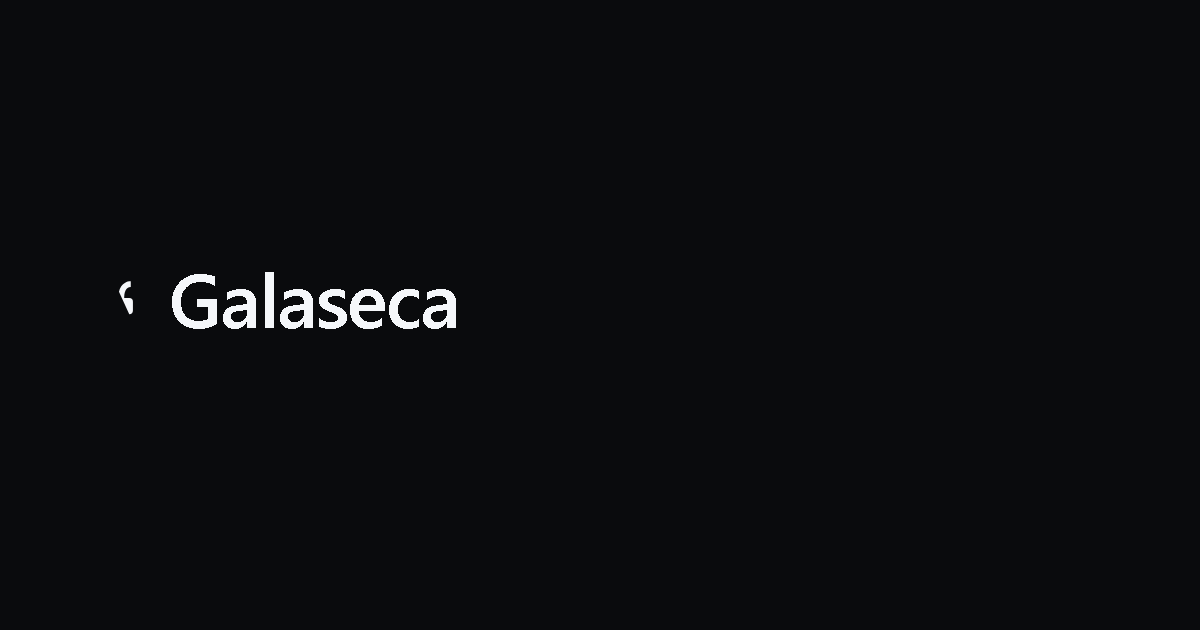
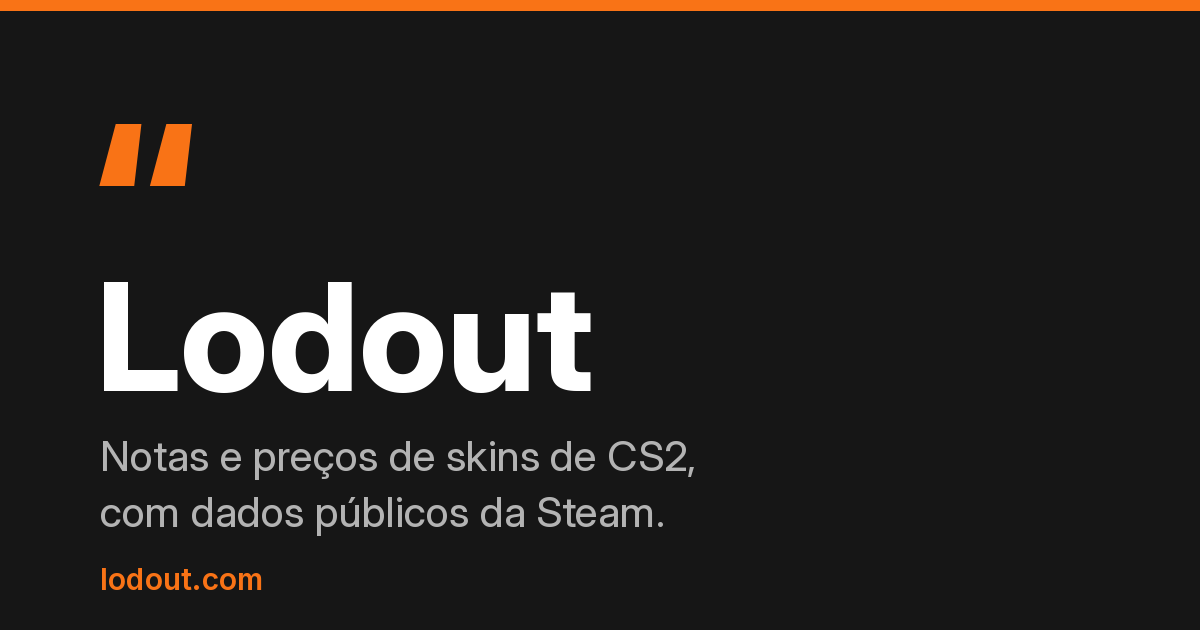
Imagem de prévia ao compartilhar: cartão por item e padrão do Lodout
- og_cards.py (Pillow + a Inter do site): cartao_padrao() e
  cartao_item() 1200x630 com ícone, nome, nota (cor da faixa), preço e
  fio na cor da raridade; ★ desenhada (a Inter servida não tem o glifo).
- /og/item.png?nome=...: só dado já guardado -- ícone do cache local,
  nunca o CDN da Steam; cache em disco (data/og_cache) por
  nome+nota+preço+ícone, teto de 800 arquivos; rate limit da API.
- item.html: og:image/twitter:image apontam pro cartão,
  summary_large_image, largura/altura/alt.
- _head_pwa: páginas sem imagem própria (ranking, novidades, status,
  método...) ganham a padrão.
- static/og-image.png regenerada: ainda dizia "Galaseca".
  scripts/gerar_og_image.py recria.

Claude-Session: https://claude.ai/code/session_017sM22vPk2b77LTLZDB1cBK

diff --git a/lodout/public_site/templates/item.html b/lodout/public_site/templates/item.html
@@ -9,13 +9,16 @@
   <meta property="og:title" content="{{ item.name_fmt }} — Lodout">
   <meta property="og:description" content="Nota {{ item.score }}/100 · {{ item.price_fmt }}{% if item.reasons %} · {{ item.reasons|join('; ') }}{% endif %}">
   <meta property="og:type" content="website">
-  <meta property="og:image" content="{{ request.url_root.rstrip('/') ~ (item.icon_url_2x if item.icon_url_2x else url_for('static', filename='og-image.png')) }}">
+  <meta property="og:image" content="{{ request.url_root.rstrip('/') ~ url_for('og_item', nome=item.name) }}">
+  <meta property="og:image:width" content="1200">
+  <meta property="og:image:height" content="630">
+  <meta property="og:image:alt" content="{{ item.name_fmt }}: nota {{ item.score }}/100, {{ item.price_fmt }}">
   <meta property="og:url" content="{{ request.url }}">
   <meta property="og:locale" content="pt_BR">
-  <meta name="twitter:card" content="summary">
+  <meta name="twitter:card" content="summary_large_image">
   <meta name="twitter:title" content="{{ item.name_fmt }} — Lodout">
   <meta name="twitter:description" content="Nota {{ item.score }}/100 · {{ item.price_fmt }}">
-  <meta name="twitter:image" content="{{ request.url_root.rstrip('/') ~ (item.icon_url_2x if item.icon_url_2x else url_for('static', filename='og-image.png')) }}">
+  <meta name="twitter:image" content="{{ request.url_root.rstrip('/') ~ url_for('og_item', nome=item.name) }}">
   <link rel="canonical" href="{{ request.url }}">
   <script type="application/ld+json">
   {

diff --git a/lodout/public_site/templates/partials/_head_pwa.html b/lodout/public_site/templates/partials/_head_pwa.html
@@ -1,4 +1,13 @@
   <link rel="icon" href="{{ static_v('favicon.svg') }}">
+  {# Prévia ao compartilhar: início e item declaram a própria imagem; as
+     demais páginas usam a padrão (logo + frase), que antes não tinham. #}
+  {% if request.endpoint not in ('index', 'item_detail') %}
+  <meta property="og:site_name" content="Lodout">
+  <meta property="og:image" content="{{ request.url_root.rstrip('/') }}{{ url_for('static', filename='og-image.png') }}">
+  <meta property="og:image:width" content="1200">
+  <meta property="og:image:height" content="630">
+  <meta name="twitter:card" content="summary_large_image">
+  {% endif %}
   {# Fonte crítica: preload pra começar a baixar em paralelo com o HTML,
      em vez de só depois que o CSS é baixado e parseado (o @font-face
      dispara o fetch da fonte). Sem isso, o texto fica em fallback até a

diff --git a/lodout/public_site/og_cards.py b/lodout/public_site/og_cards.py
@@ -1,0 +1,214 @@
+"""Imagens de prévia (Open Graph, 1200x630) pra quando um link do Lodout
+é colado no Discord, WhatsApp, X etc.
+
+- `cartao_padrao()`: marca + frase do site. Gera o `static/og-image.png`
+  (via scripts/gerar_og_image.py) usado pelas páginas sem imagem própria.
+- `cartao_item(...)`: um por item, com ícone, nome, nota, preço e a cor
+  da raridade. Feito só com dado já guardado (scan + ícone já em cache
+  local): gerar a prévia nunca consulta a Steam nem o CDN dela.
+
+Pillow já é dependência do site (icon_cache.py); a fonte é a mesma Inter
+variável que o site serve (static/fonts), com eixo de peso.
+"""
+from __future__ import annotations
+
+import hashlib
+import io
+from pathlib import Path
+
+from PIL import Image, ImageDraw, ImageFont
+
+from lodout import _paths
+from lodout._paths import atomic_write_bytes
+
+LARGURA, ALTURA = 1200, 630
+_FONTE = Path(__file__).parent / "static" / "fonts" / "inter-latin-opsz-normal.woff2"
+
+# Mesmas cores do tema (style.css :root e .raridade-*, .nota-*).
+_FUNDO = (22, 22, 22)          # --bg #161616
+_SUPERFICIE = (30, 30, 30)     # --surface #1e1e1e
+_TEXTO = (255, 255, 255)
+_TEXTO_FRACO = (179, 179, 179)  # --text-muted
+_LARANJA = (249, 115, 22)      # --accent
+_CORES_NOTA = {"alta": (34, 160, 74), "media": (217, 119, 6),
+               "baixa": (179, 179, 179)}
+_CORES_RARIDADE = {
+    "consumer": (176, 195, 217), "industrial": (94, 152, 217),
+    "milspec": (75, 105, 255), "restricted": (136, 71, 255),
+    "classified": (211, 44, 230), "covert": (235, 75, 75),
+    "dourado": (228, 174, 57),
+}
+# Cache em disco: ~185 itens x poucas dezenas de KB. Teto pra não
+# acumular versões antigas (nota/preço mudam a cada coleta).
+_CACHE_MAX_ARQUIVOS = 800
+
+
+def _fonte(tamanho: int, peso: int = 400) -> ImageFont.FreeTypeFont:
+    f = ImageFont.truetype(str(_FONTE), tamanho)
+    try:
+        f.set_variation_by_axes([32 if tamanho >= 32 else 14, peso])
+    except (OSError, ValueError):
+        pass
+    return f
+
+
+def _quebrar(texto: str, fonte, largura_max: int, linhas_max: int) -> "list[str]":
+    """Quebra por palavra; corta com reticências se passar de linhas_max."""
+    palavras, linhas, atual = texto.split(), [], ""
+    for p in palavras:
+        teste = f"{atual} {p}".strip()
+        if fonte.getlength(teste) <= largura_max:
+            atual = teste
+        else:
+            if atual:
+                linhas.append(atual)
+            atual = p
+    if atual:
+        linhas.append(atual)
+    if len(linhas) > linhas_max:
+        linhas = linhas[:linhas_max]
+        ultima = linhas[-1]
+        while ultima and fonte.getlength(ultima + "…") > largura_max:
+            ultima = ultima[:-1]
+        linhas[-1] = ultima.rstrip() + "…"
+    return linhas
+
+
+def _aspas(d: ImageDraw.ImageDraw, x: int, y: int, tamanho: int,
+           cor=_LARANJA) -> None:
+    """As aspas do logo: o caractere “ da própria Inter, em negrito."""
+    d.text((x, y), "\u201c", font=_fonte(tamanho, 800), fill=cor)
+
+
+def _estrela(d: ImageDraw.ImageDraw, cx: float, cy: float, r: float,
+             cor) -> None:
+    """★ desenhada (a Inter servida pelo site não tem o glifo)."""
+    import math
+    pontos = []
+    for i in range(10):
+        raio = r if i % 2 == 0 else r * 0.45
+        ang = -math.pi / 2 + i * math.pi / 5
+        pontos.append((cx + raio * math.cos(ang), cy + raio * math.sin(ang)))
+    d.polygon(pontos, fill=cor)
+
+
+def _png(img: Image.Image) -> bytes:
+    buf = io.BytesIO()
+    img.save(buf, "PNG", optimize=True)
+    return buf.getvalue()
+
+
+def cartao_padrao() -> bytes:
+    img = Image.new("RGB", (LARGURA, ALTURA), _FUNDO)
+    d = ImageDraw.Draw(img)
+    d.rectangle([0, 0, LARGURA, 10], fill=_LARANJA)
+    _aspas(d, 92, 70, 220)
+    d.text((96, 245), "Lodout", font=_fonte(150, 750), fill=_TEXTO)
+    frase = "Notas e preços de skins de CS2,\ncom dados públicos da Steam."
+    y = 430
+    for linha in frase.split("\n"):
+        d.text((100, y), linha, font=_fonte(42, 450), fill=_TEXTO_FRACO)
+        y += 56
+    d.text((100, ALTURA - 70), "lodout.com", font=_fonte(30, 600),
+           fill=_LARANJA)
+    return _png(img)
+
+
+def _nota_classe(nota: "int | float | None") -> str:
+    nota = nota or 0
+    return "alta" if nota >= 70 else ("media" if nota >= 45 else "baixa")
+
+
+def cartao_item(nome_fmt: str, nota: "int | None", preco_fmt: str,
+                raridade: "str | None" = None,
+                icone: "bytes | None" = None) -> bytes:
+    """1200x630: ícone à esquerda (se houver), nome, nota e preço."""
+    cor_rar = _CORES_RARIDADE.get(raridade or "", _LARANJA)
+    img = Image.new("RGB", (LARGURA, ALTURA), _FUNDO)
+    d = ImageDraw.Draw(img)
+    d.rectangle([0, 0, LARGURA, 10], fill=cor_rar)
+
+    # Quadro do ícone, com o fio da cor de raridade (como no site).
+    qx, qy, qt = 70, 105, 420
+    d.rounded_rectangle([qx, qy, qx + qt, qy + qt], radius=28,
+                        fill=_SUPERFICIE, outline=cor_rar, width=4)
+    if icone:
+        try:
+            ic = Image.open(io.BytesIO(icone)).convert("RGBA")
+            ic.thumbnail((qt - 60, qt - 60), Image.LANCZOS)
+            img.paste(ic, (qx + (qt - ic.width) // 2,
+                           qy + (qt - ic.height) // 2), ic)
+        except Exception:
+            icone = None
+    if not icone:
+        _aspas(d, qx + qt // 2 - 75, qy + qt // 2 - 120, 260,
+               cor=(90, 90, 90))
+
+    x = qx + qt + 60
+    largura_txt = LARGURA - x - 70
+    y = 110
+    f_nome = _fonte(54, 700)
+    estrela = nome_fmt.startswith("★")
+    nome = nome_fmt.lstrip("★ ").strip() if estrela else nome_fmt
+    recuo = 50 if estrela else 0
+    for i, linha in enumerate(_quebrar(nome, f_nome, largura_txt - recuo, 3)):
+        if i == 0 and estrela:
+            _estrela(d, x + 19, y + 33, 20, cor_rar)
+            d.text((x + recuo, y), linha, font=f_nome, fill=_TEXTO)
+        else:
+            d.text((x, y), linha, font=f_nome, fill=_TEXTO)
+        y += 66
+
+    y = max(y + 24, 330)
+    if nota is not None:
+        d.text((x, y), "Nota", font=_fonte(30, 500), fill=_TEXTO_FRACO)
+        d.text((x, y + 34), f"{int(nota)}", font=_fonte(120, 800),
+               fill=_CORES_NOTA[_nota_classe(nota)])
+        d.text((x + _fonte(120, 800).getlength(f"{int(nota)}") + 14, y + 104),
+               "/100", font=_fonte(34, 500), fill=_TEXTO_FRACO)
+    if preco_fmt:
+        px = x + 300
+        tam = 56
+        while tam > 34 and _fonte(tam, 700).getlength(preco_fmt) > LARGURA - 60 - px:
+            tam -= 2
+        d.text((px, y), "Preço", font=_fonte(30, 500), fill=_TEXTO_FRACO)
+        d.text((px, y + 62 + (56 - tam) // 2), preco_fmt,
+               font=_fonte(tam, 700), fill=_TEXTO)
+
+    f_rod = _fonte(30, 600)
+    d.text((x, ALTURA - 70), "lodout.com", font=f_rod, fill=_LARANJA)
+    d.text((x + f_rod.getlength("lodout.com") + 12, ALTURA - 70),
+           "· dados públicos da Steam", font=_fonte(30, 400),
+           fill=_TEXTO_FRACO)
+    return _png(img)
+
+
+def _dir_cache() -> Path:
+    return Path(_paths.DATA_DIR) / "og_cache"
+
+
+def cartao_item_em_cache(nome_fmt: str, nota, preco_fmt: str,
+                         raridade: "str | None",
+                         icone: "bytes | None") -> bytes:
+    """`cartao_item` com cache em disco pela combinação dos dados -- nota
+    ou preço novos geram arquivo novo; os velhos saem pelo teto."""
+    chave = hashlib.sha1("|".join([
+        nome_fmt, str(nota), preco_fmt, raridade or "",
+        hashlib.sha1(icone).hexdigest() if icone else "-",
+        "v1"]).encode("utf-8")).hexdigest()
+    pasta = _dir_cache()
+    caminho = pasta / f"{chave}.png"
+    try:
+        return caminho.read_bytes()
+    except OSError:
+        pass
+    dados = cartao_item(nome_fmt, nota, preco_fmt, raridade, icone)
+    try:
+        pasta.mkdir(parents=True, exist_ok=True)
+        atomic_write_bytes(caminho, dados)
+        arquivos = sorted(pasta.glob("*.png"), key=lambda p: p.stat().st_mtime)
+        for velho in arquivos[:-_CACHE_MAX_ARQUIVOS]:
+            velho.unlink(missing_ok=True)
+    except OSError:
+        pass
+    return dados

diff --git a/tests/test_public_site.py b/tests/test_public_site.py
@@ -5672,3 +5672,42 @@ def test_status_mostra_rodada_top(client, monkeypatch):
                                  "alvos": 20, "duracao_min": 3.1})
     body = client.get("/status").data.decode("utf-8")
     assert "20 primeiros do ranking" in body and "há 10 min" in body
+
+
+# ── imagens de prévia ao compartilhar ───────────────────────────
+
+def test_og_item_gera_png_1200x630_e_cacheia(client, monkeypatch, tmp_path):
+    import io as _io
+    from PIL import Image as _Image
+    _salva_scan(tmp_path, monkeypatch, [
+        {"name": "★ Karambit | Fade (Factory New)", "score": 88,
+         "price": 4000.0, "case_label": "", "pump_risk": {"level": "low"},
+         "breakdown": [], "name_color": "8650AC", "quality_id": "unusual"},
+    ])
+    monkeypatch.setattr(server.og_cards, "_dir_cache",
+                        lambda: tmp_path / "og")
+    resp = client.get("/og/item.png?nome=★ Karambit | Fade (Factory New)")
+    assert resp.status_code == 200 and resp.mimetype == "image/png"
+    assert _Image.open(_io.BytesIO(resp.data)).size == (1200, 630)
+    assert len(list((tmp_path / "og").glob("*.png"))) == 1
+    # Segunda vez vem do cache (mesmo arquivo, nada novo).
+    client.get("/og/item.png?nome=★ Karambit | Fade (Factory New)")
+    assert len(list((tmp_path / "og").glob("*.png"))) == 1
+    assert client.get("/og/item.png?nome=Inexistente").status_code == 404
+
+
+def test_paginas_declaram_imagem_de_previa(client, monkeypatch, tmp_path):
+    _salva_scan(tmp_path, monkeypatch, [
+        {"name": "A", "score": 70, "price": 5.0, "case_label": "",
+         "pump_risk": {"level": "low"}, "breakdown": []},
+    ])
+    item = client.get("/item/A").data.decode("utf-8")
+    assert '/og/item.png?nome=A"' in item
+    assert '<meta name="twitter:card" content="summary_large_image">' in item
+    assert item.count('property="og:image"') == 1
+    for pagina in ("/ranking", "/novidades", "/metodo", "/status"):
+        body = client.get(pagina).data.decode("utf-8")
+        assert "/static/og-image.png" in body, pagina
+        assert body.count('property="og:image"') == 1, pagina
+    home = client.get("/").data.decode("utf-8")
+    assert home.count('property="og:image"') == 1

diff --git a/lodout/public_site/server.py b/lodout/public_site/server.py
@@ -45,7 +45,7 @@ from lodout._paths import DATA_DIR, atomic_write_bytes
 from lodout.localization import localize_name
 from lodout.public_site import (
     buscas, changelog, charts, db_backup, discord_notify, erro_stats, fmt,
-    icon_cache, latencia, profile_fetcher, raridade, rate_limit,
+    icon_cache, latencia, og_cards, profile_fetcher, raridade, rate_limit,
     scan_progress, user_store, uptime, visits,
 )
 from lodout.public_site.auth import csrf_token, csrf_valid
@@ -561,6 +561,37 @@ def create_app() -> Flask:
             preco_coletado_txt=(
                 scan_store.idade_txt(hist[-1]["ts"]) if hist else None),
         )
+
+    @app.route("/og/item.png")
+    @rate_limit.rate_limited(rate_limit.API_MAX_HITS, rate_limit.API_WINDOW_S)
+    def og_item():
+        """Imagem de prévia (1200x630) do item, pra quando o link dele é
+        compartilhado. Só dado já guardado: o ícone sai do cache local
+        (nunca busca no CDN da Steam aqui) e a imagem fica em cache em
+        disco até nota/preço mudarem. Nome fora da lista do site: 404."""
+        nome = request.args.get("nome") or ""
+        scan = scan_store.load_last_scan()
+        candidatos = _candidatos_filtrados(
+            scan, com_historico=False, com_icone=False)
+        item = next((c for c in candidatos if c["name"] == nome), None)
+        if item is None:
+            return "", 404
+        icone = None
+        hash_icone = item.get("icon")
+        if hash_icone:
+            for tamanho in (384, icon_cache.TAMANHO_PADRAO):
+                try:
+                    icone = icon_cache._caminho(hash_icone, tamanho).read_bytes()
+                    break
+                except (OSError, ValueError):
+                    continue
+        dados = og_cards.cartao_item_em_cache(
+            item.get("name_fmt") or nome, item.get("score"),
+            item.get("price_fmt") or "",
+            raridade.raridade_suffix(item) or None, icone)
+        resp = Response(dados, mimetype="image/png")
+        resp.headers["Cache-Control"] = "public, max-age=3600"
+        return resp
 
     @app.route("/comparar")
     def comparar():

diff --git a/scripts/gerar_og_image.py b/scripts/gerar_og_image.py
@@ -1,0 +1,16 @@
+"""Gera lodout/public_site/static/og-image.png (prévia padrão ao
+compartilhar o site) a partir de og_cards.cartao_padrao().
+
+Uso: python scripts/gerar_og_image.py
+"""
+from pathlib import Path
+import sys
+
+sys.path.insert(0, str(Path(__file__).resolve().parent.parent))
+
+from lodout.public_site import og_cards  # noqa: E402
+
+destino = (Path(__file__).resolve().parent.parent / "lodout" / "public_site"
+           / "static" / "og-image.png")
+destino.write_bytes(og_cards.cartao_padrao())
+print(destino)

diff --git a/lodout/public_site/changelog.py b/lodout/public_site/changelog.py
@@ -12,6 +12,7 @@ ENTRADAS = [
         "titulo": "Top 20 com preço mais fresco",
         "itens": [
             "Os 20 primeiros do ranking passam a ter o preço atualizado a cada 2 horas, entre as coletas completas de 6 em 6 horas. A página Status mostra quando foi a última atualização.",
+            "Ao compartilhar o link de um item (Discord, WhatsApp, X…), aparece um cartão com o ícone, a nota, o preço e a cor da raridade. As demais páginas ganharam a imagem padrão do Lodout.",
         ],
     },
     {
